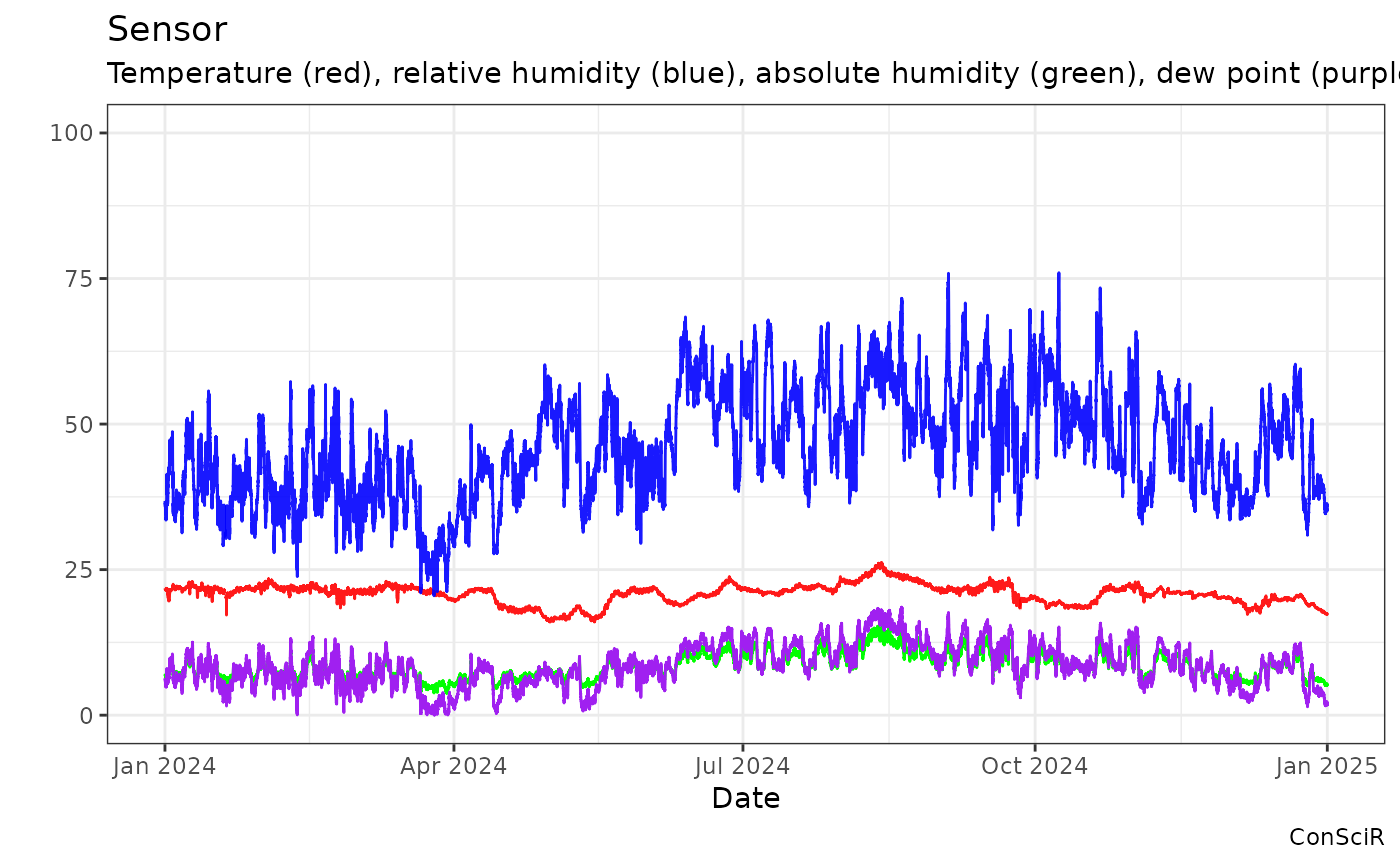
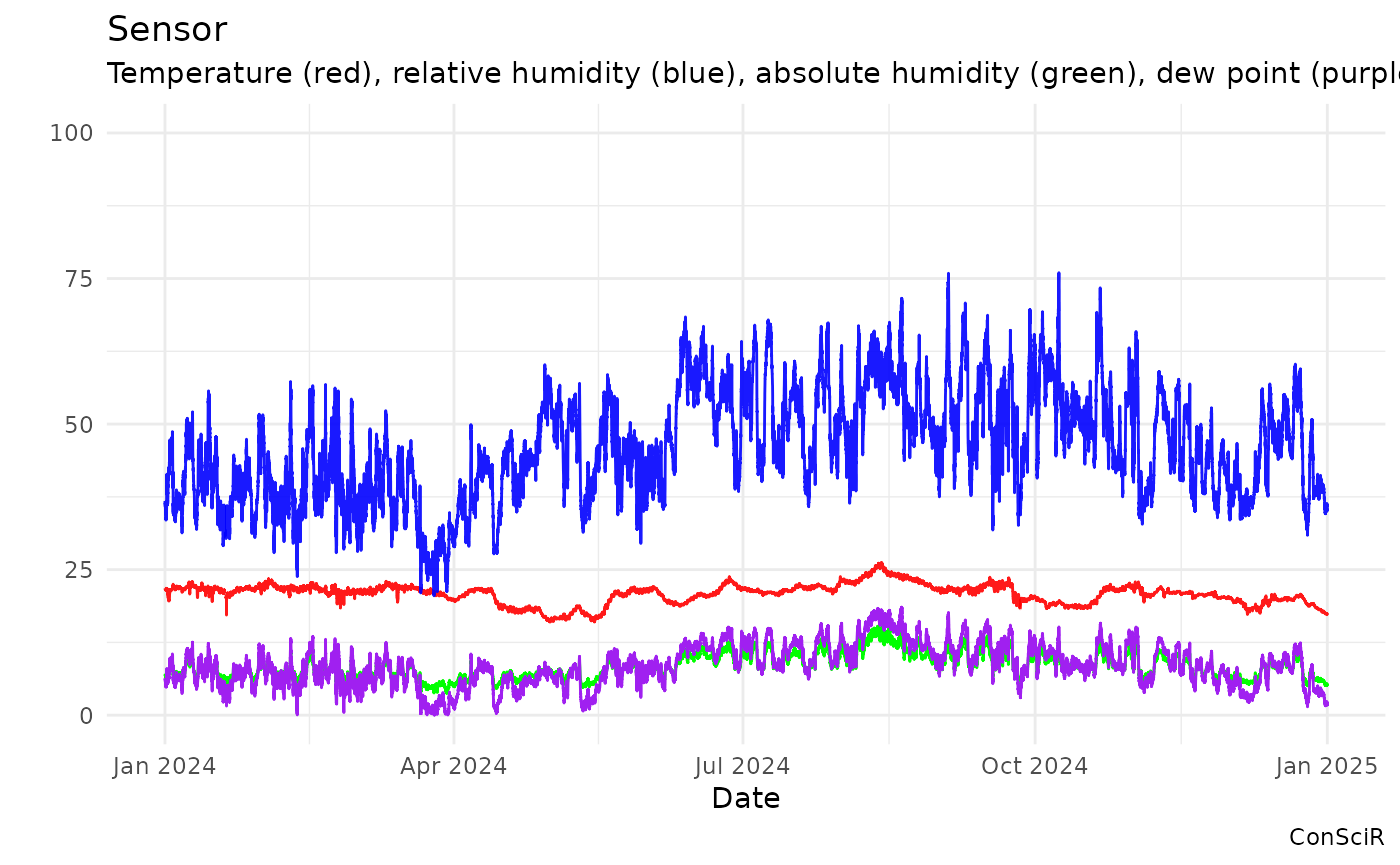
Deploying to gh-pages from @ BhavShah01/ConSciR@3cf37dc7e1947decd03b3a5858f6a71bc4224712 🚀

Changed region(s): [[0.0921, 0.8428, 0.9829, 0.874], [0.0921, 0.0936, 0.9829, 0.1249]]

diff --git a/index.html b/index.html
@@ -138,37 +138,40 @@
 <code class="sourceCode R"><span><span class="co"># Peform calculations</span></span>
 <span><span class="fu"><a href="https://rdrr.io/r/utils/head.html" class="external-link">head</a></span><span class="op">(</span><span class="va">mydata</span><span class="op">)</span> <span class="op">|&gt;</span></span>
 <span>  <span class="fu"><a href="https://dplyr.tidyverse.org/reference/mutate.html" class="external-link">mutate</a></span><span class="op">(</span></span>
-<span>    DewPoint <span class="op">=</span> <span class="fu"><a href="reference/calcDP.html">calcDP</a></span><span class="op">(</span><span class="va">Temp</span>, <span class="va">RH</span><span class="op">)</span>, </span>
-<span>    AbsHum <span class="op">=</span> <span class="fu"><a href="reference/calcAH.html">calcAH</a></span><span class="op">(</span><span class="va">Temp</span>, <span class="va">RH</span><span class="op">)</span>, </span>
+<span>    DewP <span class="op">=</span> <span class="fu"><a href="reference/calcDP.html">calcDP</a></span><span class="op">(</span><span class="va">Temp</span>, <span class="va">RH</span><span class="op">)</span>, </span>
+<span>    Abs <span class="op">=</span> <span class="fu"><a href="reference/calcAH.html">calcAH</a></span><span class="op">(</span><span class="va">Temp</span>, <span class="va">RH</span><span class="op">)</span>, </span>
 <span>    LifeTime <span class="op">=</span> <span class="fu"><a href="reference/calcLM.html">calcLM</a></span><span class="op">(</span><span class="va">Temp</span>, <span class="va">RH</span>, EA <span class="op">=</span> <span class="fl">100</span><span class="op">)</span>, </span>
-<span>    PreservationIndex <span class="op">=</span> <span class="fu"><a href="reference/calcPI.html">calcPI</a></span><span class="op">(</span><span class="va">Temp</span>, <span class="va">RH</span><span class="op">)</span><span class="op">)</span></span>
+<span>    PI <span class="op">=</span> <span class="fu"><a href="reference/calcPI.html">calcPI</a></span><span class="op">(</span><span class="va">Temp</span>, <span class="va">RH</span><span class="op">)</span></span>
+<span>    <span class="op">)</span></span>
 <span><span class="co">#&gt; # A tibble: 6 × 9</span></span>
-<span><span class="co">#&gt;   Site   Sensor Date                 Temp    RH DewPoint AbsHum LifeTime</span></span>
-<span><span class="co">#&gt;   &lt;chr&gt;  &lt;chr&gt;  &lt;dttm&gt;              &lt;dbl&gt; &lt;dbl&gt;    &lt;dbl&gt;  &lt;dbl&gt;    &lt;dbl&gt;</span></span>
-<span><span class="co">#&gt; 1 London Room 1 2024-01-01 00:00:00  21.8  36.8     6.38   7.05     1.85</span></span>
-<span><span class="co">#&gt; 2 London Room 1 2024-01-01 00:15:00  21.8  36.7     6.34   7.03     1.85</span></span>
-<span><span class="co">#&gt; 3 London Room 1 2024-01-01 00:29:59  21.8  36.6     6.30   7.01     1.85</span></span>
-<span><span class="co">#&gt; 4 London Room 1 2024-01-01 00:44:59  21.7  36.6     6.22   6.97     1.85</span></span>
-<span><span class="co">#&gt; 5 London Room 1 2024-01-01 00:59:59  21.7  36.5     6.18   6.95     1.86</span></span>
-<span><span class="co">#&gt; 6 London Room 1 2024-01-01 01:14:59  21.7  36.2     6.06   6.90     1.86</span></span>
-<span><span class="co">#&gt; # ℹ 1 more variable: PreservationIndex &lt;dbl&gt;</span></span></code></pre></div>
-<ul>
-<li>Graphs</li>
-</ul>
-<div class="sourceCode" id="cb6"><pre class="downlit sourceCode r">
-<code class="sourceCode R"><span><span class="co"># Produce graphs </span></span>
-<span><span class="va">mydata</span> <span class="op">|&gt;</span></span>
-<span>  <span class="fu"><a href="reference/graph_TRH.html">graph_TRH</a></span><span class="op">(</span><span class="op">)</span></span></code></pre></div>
-<p><img src="reference/figures/README-unnamed-chunk-5-1.png" width="100%"></p>
+<span><span class="co">#&gt;   Site   Sensor Date                 Temp    RH  DewP   Abs LifeTime    PI</span></span>
+<span><span class="co">#&gt;   &lt;chr&gt;  &lt;chr&gt;  &lt;dttm&gt;              &lt;dbl&gt; &lt;dbl&gt; &lt;dbl&gt; &lt;dbl&gt;    &lt;dbl&gt; &lt;dbl&gt;</span></span>
+<span><span class="co">#&gt; 1 London Room 1 2024-01-01 00:00:00  21.8  36.8  6.38  7.05     1.85  45.3</span></span>
+<span><span class="co">#&gt; 2 London Room 1 2024-01-01 00:15:00  21.8  36.7  6.34  7.03     1.85  45.4</span></span>
+<span><span class="co">#&gt; 3 London Room 1 2024-01-01 00:29:59  21.8  36.6  6.30  7.01     1.85  45.5</span></span>
+<span><span class="co">#&gt; 4 London Room 1 2024-01-01 00:44:59  21.7  36.6  6.22  6.97     1.85  46.1</span></span>
+<span><span class="co">#&gt; 5 London Room 1 2024-01-01 00:59:59  21.7  36.5  6.18  6.95     1.86  46.2</span></span>
+<span><span class="co">#&gt; 6 London Room 1 2024-01-01 01:14:59  21.7  36.2  6.06  6.90     1.86  46.6</span></span></code></pre></div>
 <ul>
 <li>Combine analysis with graphs</li>
 </ul>
-<div class="sourceCode" id="cb7"><pre class="downlit sourceCode r">
+<div class="sourceCode" id="cb6"><pre class="downlit sourceCode r">
 <code class="sourceCode R"><span><span class="va">mydata</span> <span class="op">|&gt;</span></span>
 <span>  <span class="fu"><a href="https://dplyr.tidyverse.org/reference/mutate.html" class="external-link">mutate</a></span><span class="op">(</span>DewPoint <span class="op">=</span> <span class="fu"><a href="reference/calcDP.html">calcDP</a></span><span class="op">(</span><span class="va">Temp</span>, <span class="va">RH</span><span class="op">)</span><span class="op">)</span> <span class="op">|&gt;</span></span>
 <span>  <span class="fu"><a href="reference/graph_TRH.html">graph_TRH</a></span><span class="op">(</span><span class="op">)</span> <span class="op">+</span> </span>
 <span>  <span class="fu"><a href="https://ggplot2.tidyverse.org/reference/geom_path.html" class="external-link">geom_line</a></span><span class="op">(</span><span class="fu"><a href="https://ggplot2.tidyverse.org/reference/aes.html" class="external-link">aes</a></span><span class="op">(</span><span class="va">Date</span>, <span class="va">DewPoint</span><span class="op">)</span>, col <span class="op">=</span> <span class="st">"purple"</span>, size <span class="op">=</span> <span class="fl">1</span><span class="op">)</span> <span class="op">+</span> </span>
-<span>  <span class="fu"><a href="https://ggplot2.tidyverse.org/reference/ggtheme.html" class="external-link">theme_bw</a></span><span class="op">(</span><span class="op">)</span></span></code></pre></div>
+<span>  <span class="fu"><a href="https://ggplot2.tidyverse.org/reference/ggtheme.html" class="external-link">theme_minimal</a></span><span class="op">(</span><span class="op">)</span></span></code></pre></div>
+<p><img src="reference/figures/README-unnamed-chunk-5-1.png" width="100%"></p>
+<ul>
+<li>Use analysis functions, for example estimate mould growth</li>
+</ul>
+<div class="sourceCode" id="cb7"><pre class="downlit sourceCode r">
+<code class="sourceCode R"><span><span class="va">mydata</span> <span class="op">|&gt;</span></span>
+<span>  <span class="fu"><a href="reference/calcMould.html">calcMould</a></span><span class="op">(</span>Temp <span class="op">=</span> <span class="st">"Temp"</span>, RH <span class="op">=</span> <span class="st">"RH"</span><span class="op">)</span> <span class="op">|&gt;</span></span>
+<span>  <span class="fu"><a href="https://ggplot2.tidyverse.org/reference/ggplot.html" class="external-link">ggplot</a></span><span class="op">(</span><span class="op">)</span> <span class="op">+</span></span>
+<span>  <span class="fu"><a href="https://ggplot2.tidyverse.org/reference/geom_ribbon.html" class="external-link">geom_area</a></span><span class="op">(</span><span class="fu"><a href="https://ggplot2.tidyverse.org/reference/aes.html" class="external-link">aes</a></span><span class="op">(</span><span class="va">Date</span>, <span class="va">mould</span><span class="op">)</span>, fill <span class="op">=</span> <span class="st">"darkgreen"</span>, size <span class="op">=</span> <span class="fl">1</span><span class="op">)</span> <span class="op">+</span></span>
+<span>  <span class="fu"><a href="https://ggplot2.tidyverse.org/reference/labs.html" class="external-link">labs</a></span><span class="op">(</span>title <span class="op">=</span> <span class="st">"Probabilty of mould"</span>, x <span class="op">=</span> <span class="st">""</span>, y <span class="op">=</span> <span class="st">"Mould risk"</span><span class="op">)</span> <span class="op">+</span> </span>
+<span>  <span class="fu"><a href="https://ggplot2.tidyverse.org/reference/ggtheme.html" class="external-link">theme_minimal</a></span><span class="op">(</span><span class="op">)</span></span></code></pre></div>
 <p><img src="reference/figures/README-unnamed-chunk-6-1.png" width="100%"></p>
 </div>
 </div>

diff --git a/reference/calcPw.html b/reference/calcPw.html
@@ -91,10 +91,16 @@ Journal of Physical and Chemical Reference Data, June 2002 ,Volume 31, Issue 2, 
 <span class="r-in"><span><span class="fu">calcPw</span><span class="op">(</span><span class="fl">20</span>, <span class="fl">50</span><span class="op">)</span> <span class="op">/</span> <span class="fu"><a href="calcPws.html">calcPws</a></span><span class="op">(</span><span class="fl">20</span><span class="op">)</span> <span class="op">*</span> <span class="fl">100</span></span></span>
 <span class="r-out co"><span class="r-pr">#&gt;</span> [1] 50</span>
 <span class="r-in"><span></span></span>
-<span class="r-in"><span><span class="fu"><a href="https://rdrr.io/r/utils/head.html" class="external-link">head</a></span><span class="op">(</span><span class="va">mydata</span><span class="op">)</span> <span class="op">|&gt;</span> <span class="fu">dplyr</span><span class="fu">::</span><span class="fu"><a href="https://dplyr.tidyverse.org/reference/mutate.html" class="external-link">mutate</a></span><span class="op">(</span>Pw <span class="op">=</span> <span class="fu"><a href="calcPws.html">calcPws</a></span><span class="op">(</span><span class="va">Temp</span>, <span class="va">RH</span><span class="op">)</span><span class="op">)</span></span></span>
-<span class="r-err co"><span class="r-pr">#&gt;</span> <span class="error">Error in dplyr::mutate(head(mydata), Pw = calcPws(Temp, RH)):</span> <span style="color: #00BBBB;">ℹ</span> In argument: `Pw = calcPws(Temp, RH)`.</span>
-<span class="r-err co"><span class="r-pr">#&gt;</span> <span style="font-weight: bold;">Caused by error in `calcPws()`:</span></span>
-<span class="r-err co"><span class="r-pr">#&gt;</span> <span style="color: #BBBB00;">!</span> unused argument (RH)</span>
+<span class="r-in"><span><span class="fu"><a href="https://rdrr.io/r/utils/head.html" class="external-link">head</a></span><span class="op">(</span><span class="va">mydata</span><span class="op">)</span> <span class="op">|&gt;</span> <span class="fu">dplyr</span><span class="fu">::</span><span class="fu"><a href="https://dplyr.tidyverse.org/reference/mutate.html" class="external-link">mutate</a></span><span class="op">(</span>Pw <span class="op">=</span> <span class="fu">calcPw</span><span class="op">(</span><span class="va">Temp</span>, <span class="va">RH</span><span class="op">)</span><span class="op">)</span></span></span>
+<span class="r-out co"><span class="r-pr">#&gt;</span> <span style="color: #949494;"># A tibble: 6 × 6</span></span>
+<span class="r-out co"><span class="r-pr">#&gt;</span>   Site   Sensor Date                 Temp    RH    Pw</span>
+<span class="r-out co"><span class="r-pr">#&gt;</span>   <span style="color: #949494; font-style: italic;">&lt;chr&gt;</span>  <span style="color: #949494; font-style: italic;">&lt;chr&gt;</span>  <span style="color: #949494; font-style: italic;">&lt;dttm&gt;</span>              <span style="color: #949494; font-style: italic;">&lt;dbl&gt;</span> <span style="color: #949494; font-style: italic;">&lt;dbl&gt;</span> <span style="color: #949494; font-style: italic;">&lt;dbl&gt;</span></span>
+<span class="r-out co"><span class="r-pr">#&gt;</span> <span style="color: #BCBCBC;">1</span> London Room 1 2024-01-01 <span style="color: #949494;">00:00:00</span>  21.8  36.8  9.62</span>
+<span class="r-out co"><span class="r-pr">#&gt;</span> <span style="color: #BCBCBC;">2</span> London Room 1 2024-01-01 <span style="color: #949494;">00:15:00</span>  21.8  36.7  9.59</span>
+<span class="r-out co"><span class="r-pr">#&gt;</span> <span style="color: #BCBCBC;">3</span> London Room 1 2024-01-01 <span style="color: #949494;">00:29:59</span>  21.8  36.6  9.56</span>
+<span class="r-out co"><span class="r-pr">#&gt;</span> <span style="color: #BCBCBC;">4</span> London Room 1 2024-01-01 <span style="color: #949494;">00:44:59</span>  21.7  36.6  9.51</span>
+<span class="r-out co"><span class="r-pr">#&gt;</span> <span style="color: #BCBCBC;">5</span> London Room 1 2024-01-01 <span style="color: #949494;">00:59:59</span>  21.7  36.5  9.48</span>
+<span class="r-out co"><span class="r-pr">#&gt;</span> <span style="color: #BCBCBC;">6</span> London Room 1 2024-01-01 <span style="color: #949494;">01:14:59</span>  21.7  36.2  9.40</span>
 <span class="r-in"><span></span></span>
 <span class="r-in"><span></span></span>
 </code></pre></div>

diff --git a/articles/ConSciR-FirstTimeR.html b/articles/ConSciR-FirstTimeR.html
@@ -92,7 +92,7 @@ plenty of online resources available to guide you through each step.</p>
 <li>RStudio: <a href="https://posit.co/download/rstudio-desktop/" class="external-link">https://posit.co/download/rstudio-desktop/</a>
 </li>
 </ul>
-<p>Useful starting point from RStudio Education: <a href="%22https://education.rstudio.com/learn/%22" class="external-link">Finding Your Way To
+<p>Useful starting point from RStudio Education: <a href="https://education.rstudio.com/learn/" class="external-link">Finding Your Way To
 R</a></p>
 </div>
 <div class="section level2">
@@ -121,7 +121,8 @@ RStudio and type:</p>
 the package into your R session using the <code><a href="https://rdrr.io/r/base/library.html" class="external-link">library()</a></code>
 function:</p>
 <div class="sourceCode" id="cb2"><pre class="downlit sourceCode r">
-<code class="sourceCode R"><span><span class="kw"><a href="https://rdrr.io/r/base/library.html" class="external-link">library</a></span><span class="op">(</span><span class="va"><a href="https://ggplot2.tidyverse.org" class="external-link">ggplot2</a></span><span class="op">)</span></span></code></pre></div>
+<code class="sourceCode R"><span><span class="kw"><a href="https://rdrr.io/r/base/library.html" class="external-link">library</a></span><span class="op">(</span><span class="va"><a href="https://tidyverse.tidyverse.org" class="external-link">tidyverse</a></span><span class="op">)</span></span>
+<span><span class="kw"><a href="https://rdrr.io/r/base/library.html" class="external-link">library</a></span><span class="op">(</span><span class="va">runner</span><span class="op">)</span></span></code></pre></div>
 </li>
 </ol>
 </div>

diff --git a/articles/ConSciR.html b/articles/ConSciR.html
@@ -212,8 +212,8 @@ points are missing (leave blank or use NA for missing values).</li>
 <span>    subtitle <span class="op">=</span> <span class="st">"Temperature (red), relative humidity (blue), absolute humidity (green), dew point (purple)"</span>,</span>
 <span>    caption <span class="op">=</span> <span class="st">"ConSciR"</span></span>
 <span>  <span class="op">)</span> <span class="op">+</span></span>
-<span>  <span class="co"># Apply black and white theme</span></span>
-<span>  <span class="fu"><a href="https://ggplot2.tidyverse.org/reference/ggtheme.html" class="external-link">theme_bw</a></span><span class="op">(</span><span class="op">)</span></span></code></pre></div>
+<span>  <span class="co"># Apply a theme</span></span>
+<span>  <span class="fu"><a href="https://ggplot2.tidyverse.org/reference/ggtheme.html" class="external-link">theme_minimal</a></span><span class="op">(</span><span class="op">)</span></span></code></pre></div>
 <p><img src="ConSciR_files/figure-html/unnamed-chunk-6-1.png" width="700"></p>
 </div>
   </main><aside class="col-md-3"><nav id="toc" aria-label="Table of contents"><h2>On this page</h2>
